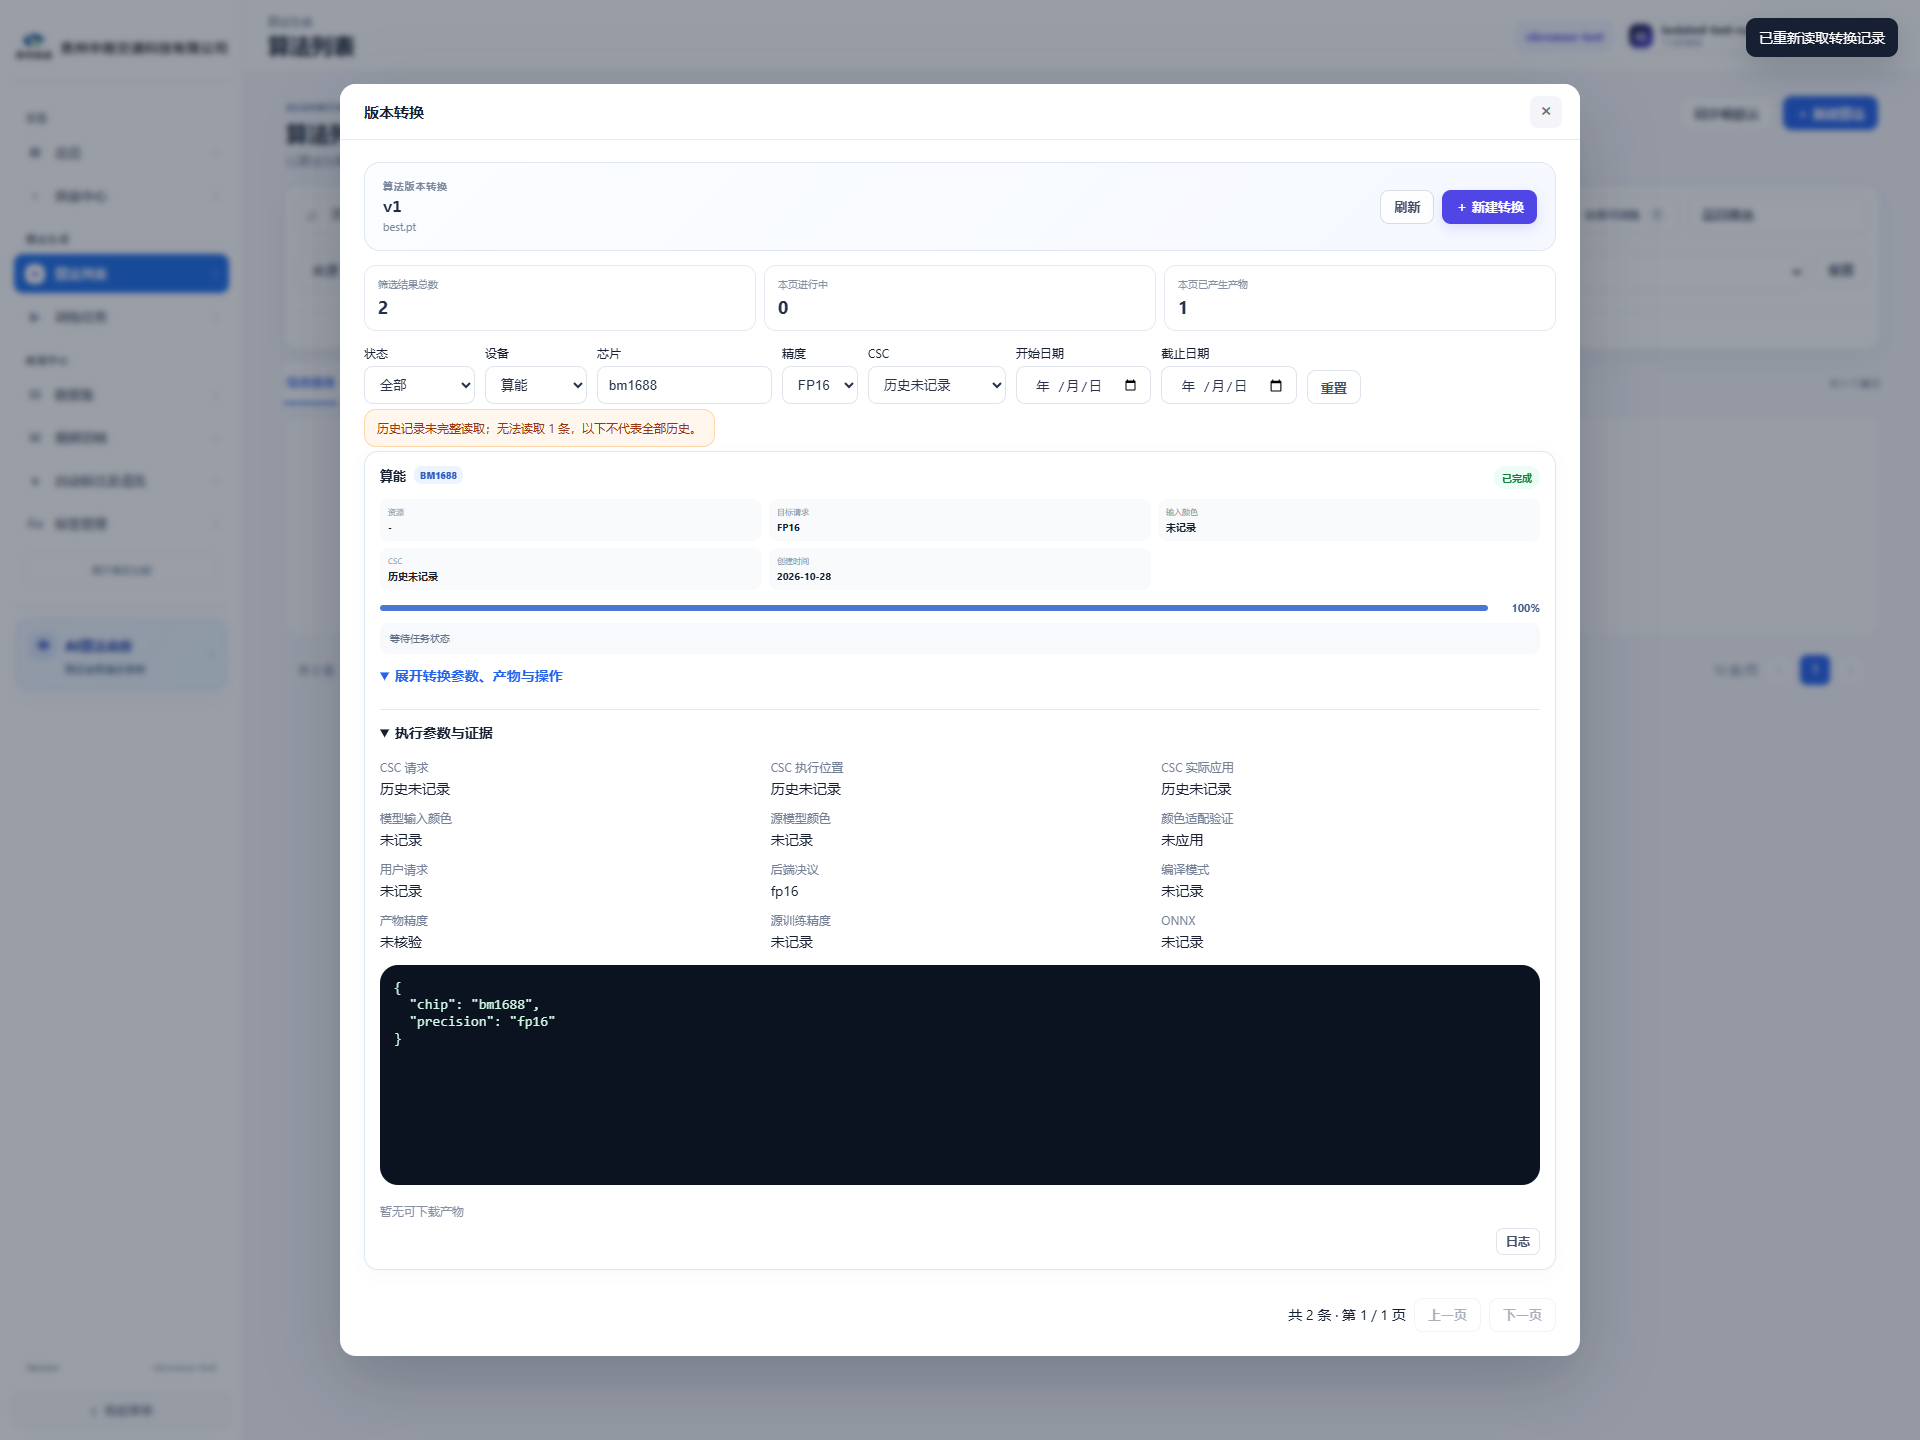
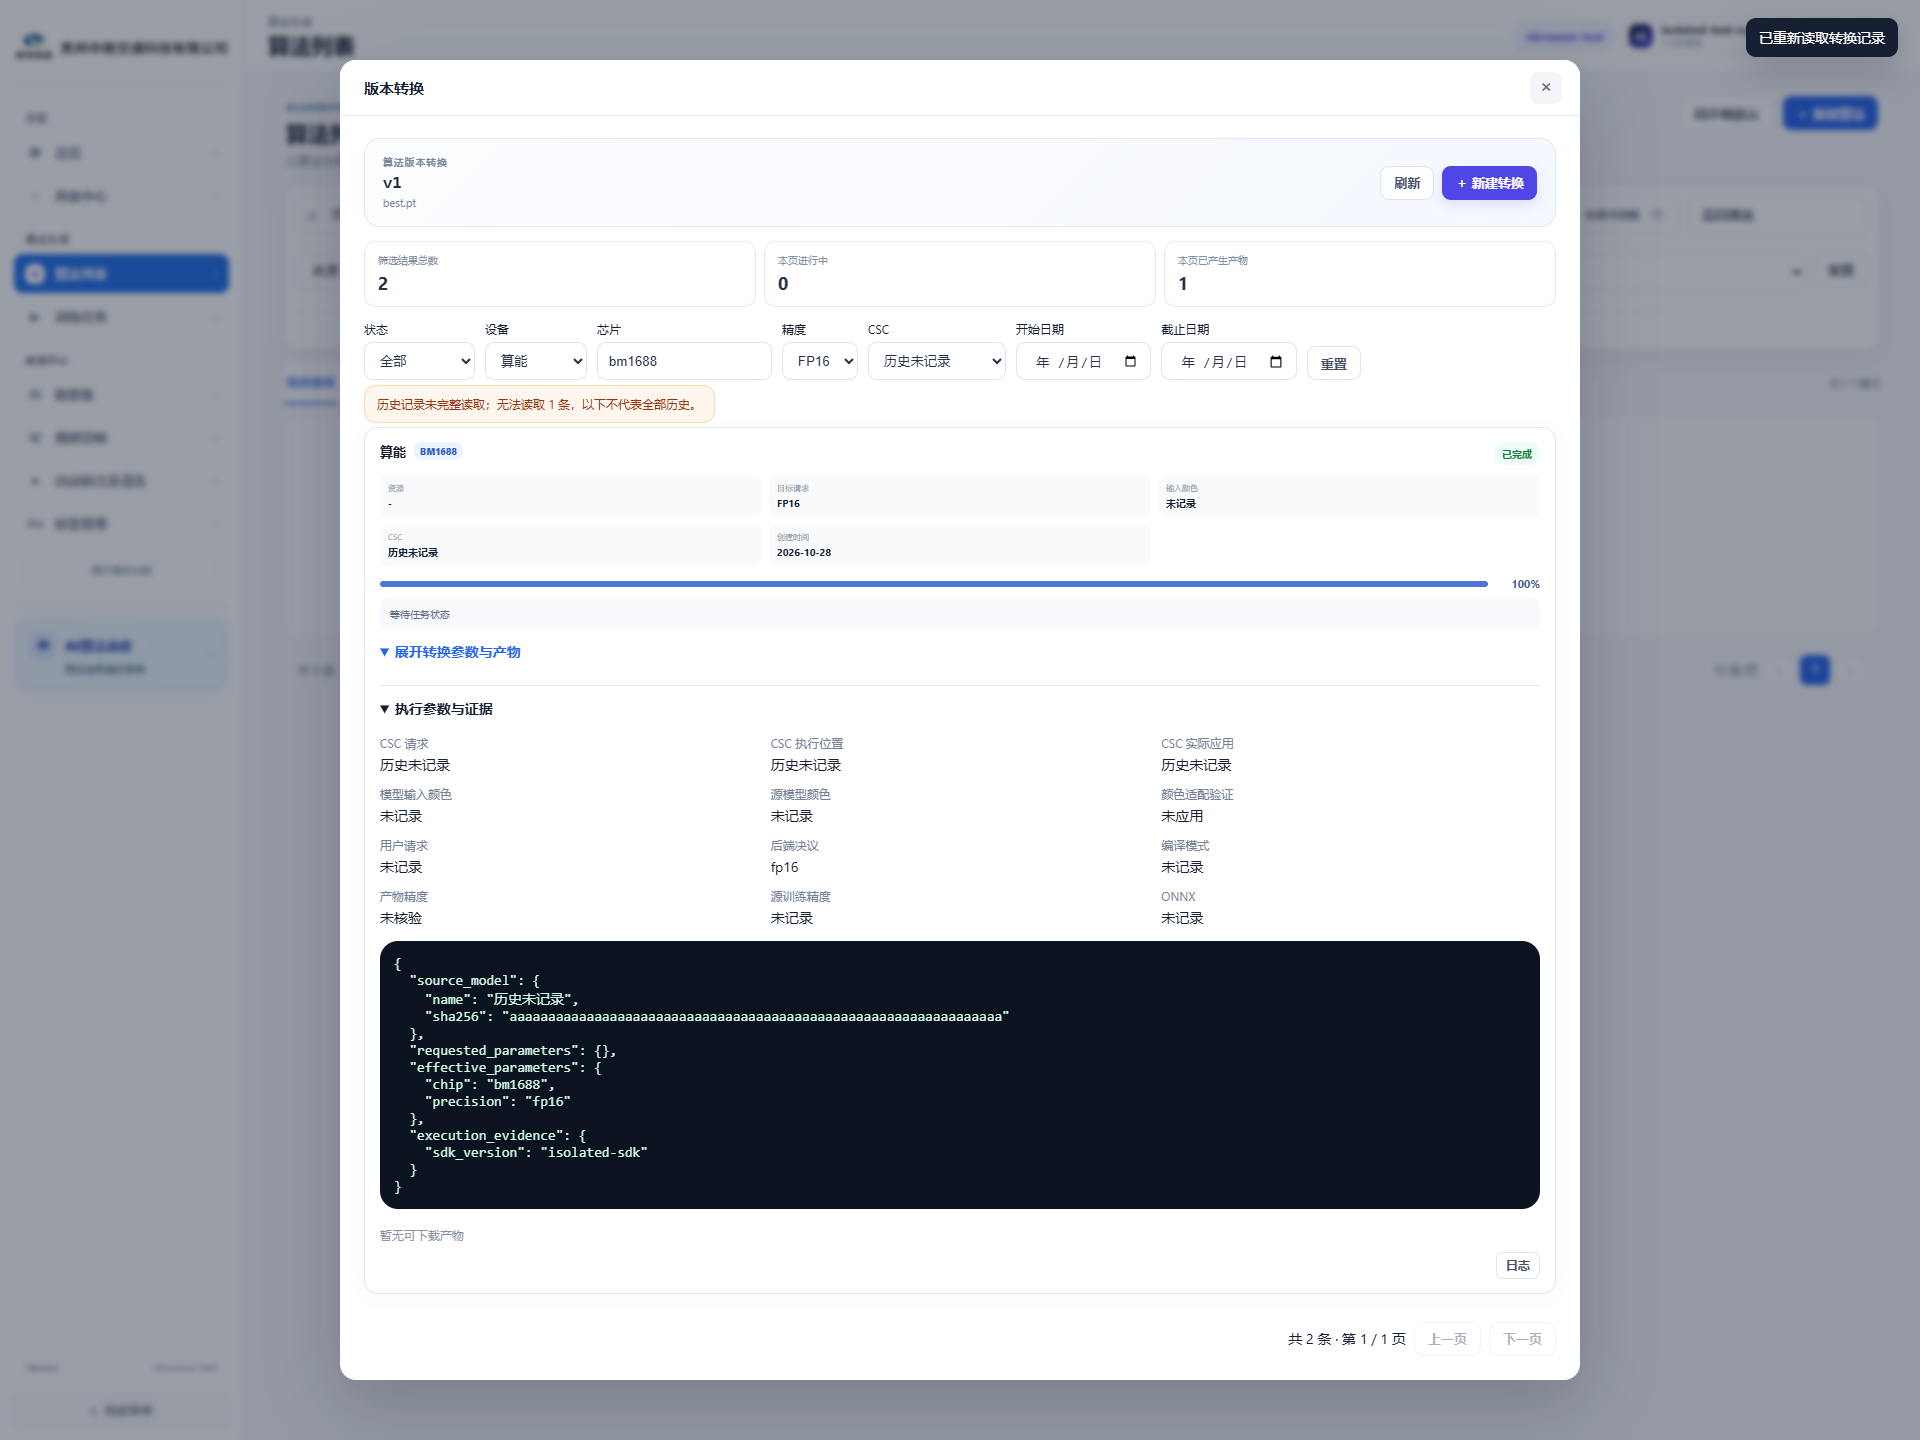
fix(conversion): expose source and complete compiler evidence in history details

diff --git a/static/app.js b/static/app.js
@@ -3547,7 +3547,7 @@ var radar424 = window.radar424 = window.radar424 || function(scores,cls=''){cons
   function conversionEvidenceHtml428(job){
     const facts=job.execution_evidence||{},params=job.params||{},requested=job.requested_params||{};
     const fields=[['CSC 请求',conversionCscName428(requested.csc?.preset||params.csc?.requested?.preset||params.csc?.preset)],['CSC 执行位置',facts.csc?.execution_location||params.csc?.execution_location||'历史未记录'],['CSC 实际应用',facts.csc?.applied===true?'已应用（设备验证另计）':facts.csc?'未应用到设备':'历史未记录'],['模型输入颜色',params.input_color_order?.toUpperCase()||'未记录'],['源模型颜色',params.source_color_order?.toUpperCase()||'未记录'],['颜色适配验证',facts.color_adapter?.verified?'ONNX Runtime数值验证通过':facts.color_adapter?.status==='legacy_unknown'?'历史未记录':facts.color_adapter?.applied?'已适配，待校验':'未应用'],['用户请求',requested.precision],['后端决议',params.precision],['编译模式',facts.compiler_precision],['产物精度',facts.artifact_precision||'未核验'],['源训练精度',facts.source_training_precision],['ONNX',facts.onnx_export==='reused_existing_onnx'?'复用已有文件；未重新应用导出参数':facts.onnx_export==='exported'?'已导出':'未记录']];
-    return `<details class="convert428-evidence"><summary>执行参数与证据</summary><dl>${fields.map(([key,value])=>`<div><dt>${esc(key)}</dt><dd>${esc(value||'未记录')}</dd></div>`).join('')}</dl><pre class="log small-log">${esc(JSON.stringify(params,null,2))}</pre></details>`;
+    return `<details class="convert428-evidence"><summary>执行参数与证据</summary><dl>${fields.map(([key,value])=>`<div><dt>${esc(key)}</dt><dd>${esc(value||'未记录')}</dd></div>`).join('')}</dl><pre class="log small-log">${esc(JSON.stringify({source_model:{name:job.source_name||'历史未记录',...(job.source_identity||{})},requested_parameters:requested,effective_parameters:params,execution_evidence:facts},null,2))}</pre></details>`;
   }
   function conversionHistoryControls428(aid,vid,r){const view=conversionHistoryView428(aid,vid),f=view.filters;const select=(key,title,values)=>`<label>${title}<select class="select" name="${key}" onchange="queryVersionConversionHistory428(this)"><option value="">全部</option>${values.map(([value,label])=>`<option value="${value}" ${f[key]===value?'selected':''}>${label}</option>`).join('')}</select></label>`;return `<form class="convert428-history-filters" onsubmit="event.preventDefault();queryVersionConversionHistory428(this)">${select('status','状态',[['queued','排队中'],['waiting_resource','等待资源'],['running','转换中'],['done','转换完成'],['blocked_by_hardware','待板端验证'],['failed','失败'],['cancelled','已取消'],['stopped','已停止']])}${select('target','设备',[['onnx','ONNX'],['sophon','算能'],['rockchip','RKNN'],['ascend','Ascend'],['tensorrt','TensorRT'],['paddle_inference','Paddle']])}<label>芯片<input class="input" name="chip" value="${esc(f.chip||'')}" oninput="queryVersionConversionHistory428(this)" placeholder="例如 bm1688"></label>${select('precision','精度',[['fp16','FP16'],['fp32','FP32'],['int8','INT8']])}${select('csc','CSC',['none','device_default','bt601_limited','bt601_full','bt709_limited','bt709_full','legacy_unknown'].map(value=>[value,conversionCscName428(value)]))}<label>开始日期<input class="input" type="date" name="created_from" value="${esc(f.created_from||'')}" onchange="queryVersionConversionHistory428(this)"></label><label>截止日期<input class="input" type="date" name="created_to" value="${esc(f.created_to||'')}" onchange="queryVersionConversionHistory428(this)"></label><button type="button" class="btn" onclick="resetVersionConversionHistory428(this)">重置</button></form><div data-history-notice role="status">${r.complete===false||Number(r.unreadable_count)>0?`<span class="alert warn">历史记录未完整读取；无法读取 ${Number(r.unreadable_count||0)} 条，以下不代表全部历史。</span>`:''}</div>`}
   window.queryVersionConversionHistory428=element=>{const root=element.closest('.convert428'),aid=root.dataset.versionConversionAid,vid=root.dataset.versionConversionVid,view=conversionHistoryView428(aid,vid),form=element.tagName==='FORM'?element:element.closest('form');const data=new FormData(form);view.filters=Object.fromEntries([...data].filter(([,value])=>String(value).trim()).map(([key,value])=>[key,String(value).trim()]));view.page=1;view.epoch++;view.controller?.abort();clearTimeout(view.timer);window.PollRegistryRuntime?.clear?.(versionConversionPollKey428(aid,vid));const notice=root.querySelector('[data-history-notice]');if(notice)notice.textContent='正在按完整条件查询…';view.timer=setTimeout(()=>window.refreshVersionConvert428(aid,vid,{quiet:true}),180)};

diff --git a/static/index.html b/static/index.html
@@ -66,7 +66,7 @@
   <script src="/static/browser-runtime.js?v=422600"></script>
   <script src="/static/auth-session.js?v=422601"></script>
   <script src="/static/material-pagination-bootstrap.js?v=42.24.0"></script>
-  <script src="/static/app.js?v=42.25.448"></script>
+  <script src="/static/app.js?v=42.25.449"></script>
   <script type="module" src="/static/main.mjs?v=42.25.444"></script>
   <script type="module" src="/static/material-upload-bootstrap.mjs?v=422535"></script>
   <script type="module" src="/static/zip-import-bootstrap.mjs?v=4226371"></script>
